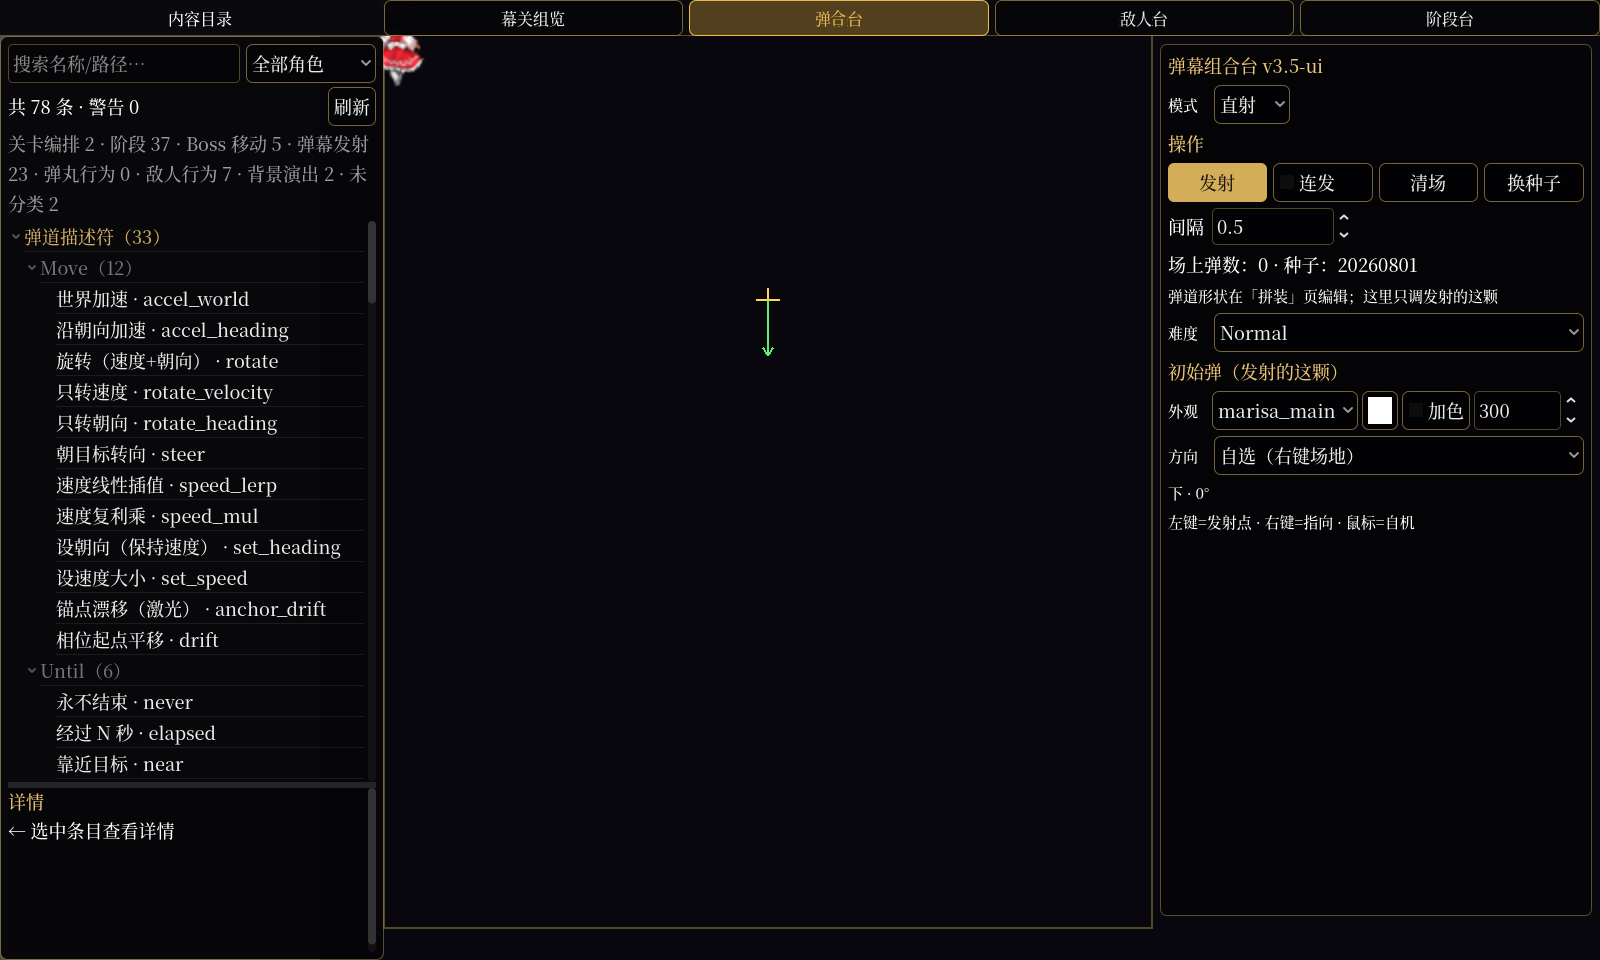
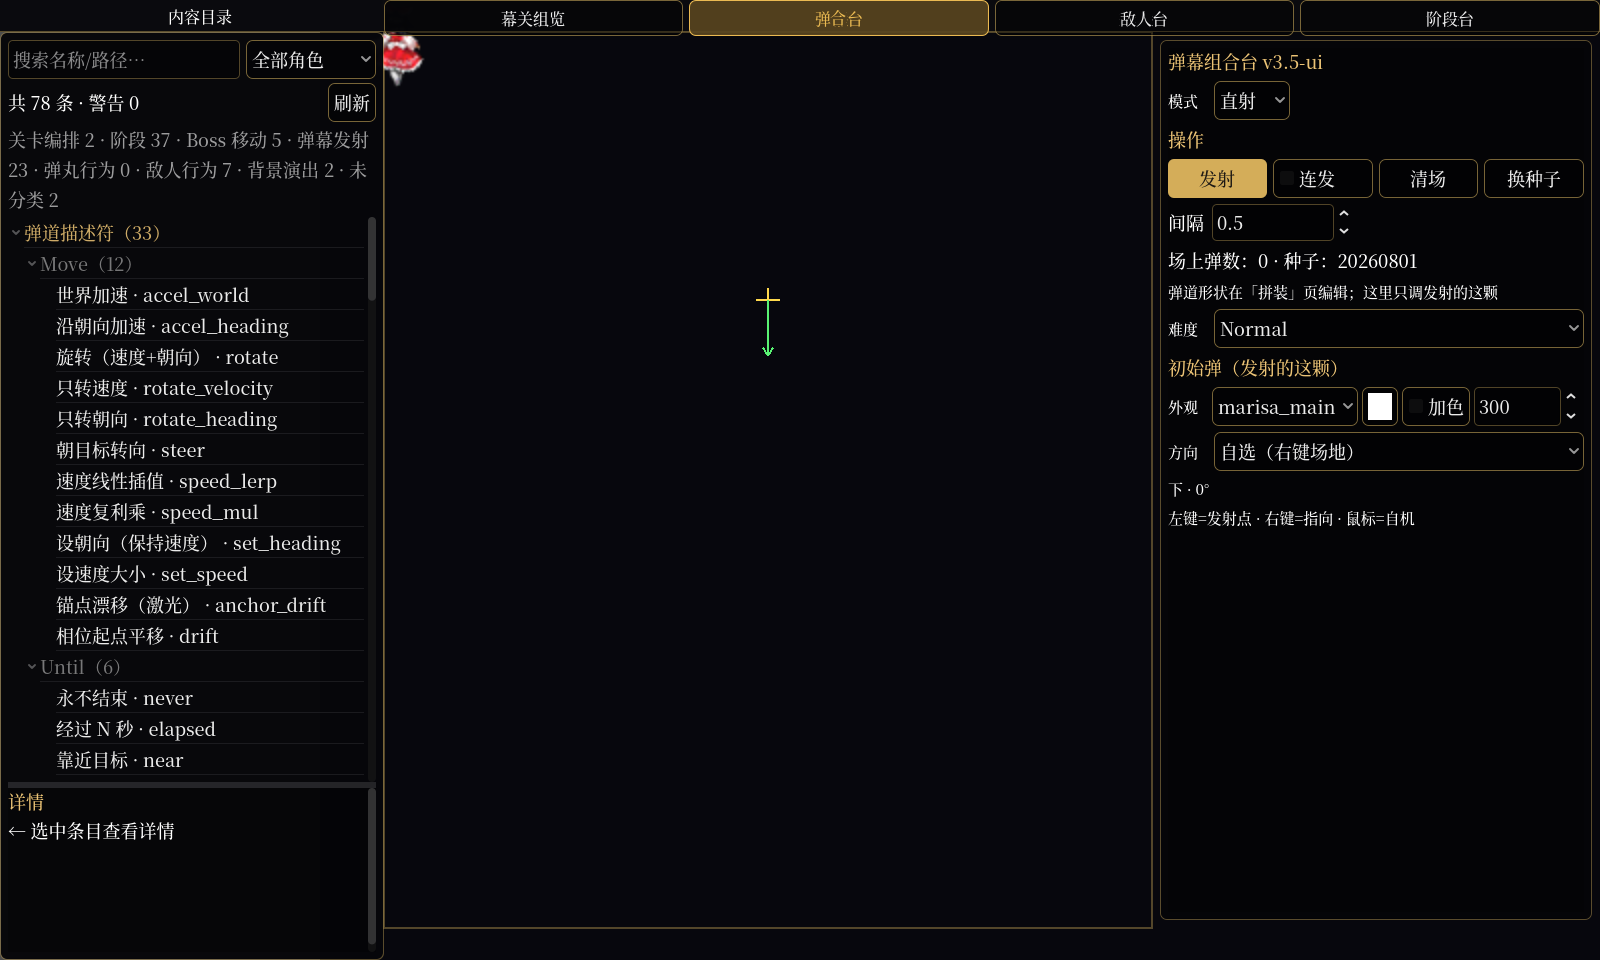
fix(workbench): 顶栏 36→32，Workbench 场地与游戏同坐标
- 之前 Workbench 嵌入后场地 y=36..932，比游戏 +4；整体上移会裁顶边
- 顶栏/内容区/Catalog/Bench 右面板统一改为 32px
- 现在 Workbench 场地 x64..832 / y32..928，与真游戏一致且完整可见
- 更新 1600/1280 实拍；全量 833 / 7755，verify 七步全绿

diff --git a/docs/BEST_PRACTICES_LOG.md b/docs/BEST_PRACTICES_LOG.md
@@ -26,12 +26,13 @@
 
 ## 索引
 
-> 共 35 条（本文件留最近 35 条，其余在 `docs/archive/`；本段由 `tools/log_archive.py` 生成，手改会被覆盖）。
+> 共 36 条（本文件留最近 36 条，其余在 `docs/archive/`；本段由 `tools/log_archive.py` 生成，手改会被覆盖）。
 
 - 2026-10-18 — D6 修正：canvas_transform + bench UI CanvasLayer
 - 2026-10-18 — D6：1600 布局 + 384 常驻左栏
 - 2026-10-18 — D3 第五批：PreviewPlayback / PreviewBookmarks
 - 2026-10-18 — D3 第四批：PreviewStageLoader
+- 2026-10-18 — Workbench 与游戏场地同坐标（顶栏 36→32）
 - 2026-10-18 — 创作台页签对齐 + 快捷键
 - 2026-10-18 — 预览暂停：BulletManager 显式 PAUSABLE
 - 2026-10-18 — 命中框错位：叠加 BulletManager 全局偏移
@@ -100,6 +101,13 @@
 - 背景实例由 loader 持有，Workbench 通过 `background()` 读取；不再在各处维护 `_background`。
 - Workbench 523 → 483；`_restart`/选项回调只剩“调 loader + 日志”。
 - 全量 832 / 7742，verify 七步全绿。
+
+### 2026-10-18 — Workbench 与游戏场地同坐标（顶栏 36→32）
+
+- 之前 Workbench 嵌入后场地 y=36..932（+4），因为顶栏 36、stage_shift 只上移 FIELD_TOP=32；整体上移 4 会裁掉顶边。
+- 把创作台顶栏 36→32（Root margin / HeaderBg / HeaderLine / 页签 / CatalogHeader / CatalogDrawer / bench 面板让位），内容区从 y=32 开始。
+- 现在 Workbench World/画框/场地都是 **x 64..832 / y 32..928**，与真游戏完全一致；高度 896 完整可见。
+- 全量 833 / 7755，verify 七步全绿。
 
 ### 2026-10-18 — 创作台页签对齐 + 快捷键
 

diff --git a/README.md b/README.md
@@ -137,6 +137,7 @@ grep -rn "关键词" --include="*.gd" scripts/ data/
 - **1600 布局 / 常驻左栏**：1600×960 时左侧 384 目录常驻（不提供关闭按钮，贴住场地金框）、页签从内容区 384 开始；1280 时自动收起为可开合覆盖抽屉；**1–4 直达四台 / Ctrl+Tab 循环 / Alt+← 返回**；双击条目直达对应台
 - **弹幕台两种模式**：直射（初始弹外形/方向/发射）· 拼装（初始弹 + A/B 替换弹模板 + Move/Until/Action/Dir → 预览 → 生成/复制代码；目录里有「弹道描述符」组）· 操作四键在两种模式顶部共用
 - **弹幕 / 敌人 / 阶段三个组合台有热更新**（改脚本约 1.3s 自动重载）；**整关预览没有**，改关卡脚本/时间线后重启（切页不再丢进度）
+- **整关预览与游戏同场地坐标**：嵌入后 Workbench 场地也是 x 64..832 / y 32..928（顶栏 32px），与真游戏一致
 - **整关预览保活**：切走冻结、切回继续；工作区配置 v2（旧 v1 自动读入，坏数据降级为空）
 - 目录自动扫描 `res://data/`，双击条目直达对应组合台（面板显示条数 / 警告数）
 - 创作流程见 [CONTENT_GUIDE.md](CONTENT_GUIDE.md)；架构决策见 [docs/archive/ARCHITECTURE_ROADMAP.md](docs/archive/ARCHITECTURE_ROADMAP.md)「内容工作台演进」专节（已归档）

diff --git a/docs/TEST_INDEX.md b/docs/TEST_INDEX.md
@@ -19,7 +19,7 @@
 ./tools/verify.sh --fast                             # 快速冒烟（~8s，不全量）
 ```
 
-**现状**：119 脚本 / **833 用例（833 通过 / 0 红 —— ✅ 全绿）/ 7755 断言 / 57.196s** / 19 orphans / **0 pending**。
+**现状**：119 脚本 / **833 用例（833 通过 / 0 红 —— ✅ 全绿）/ 7755 断言 / 57.412s** / 19 orphans / **0 pending**。
 
 ## 分层
 
